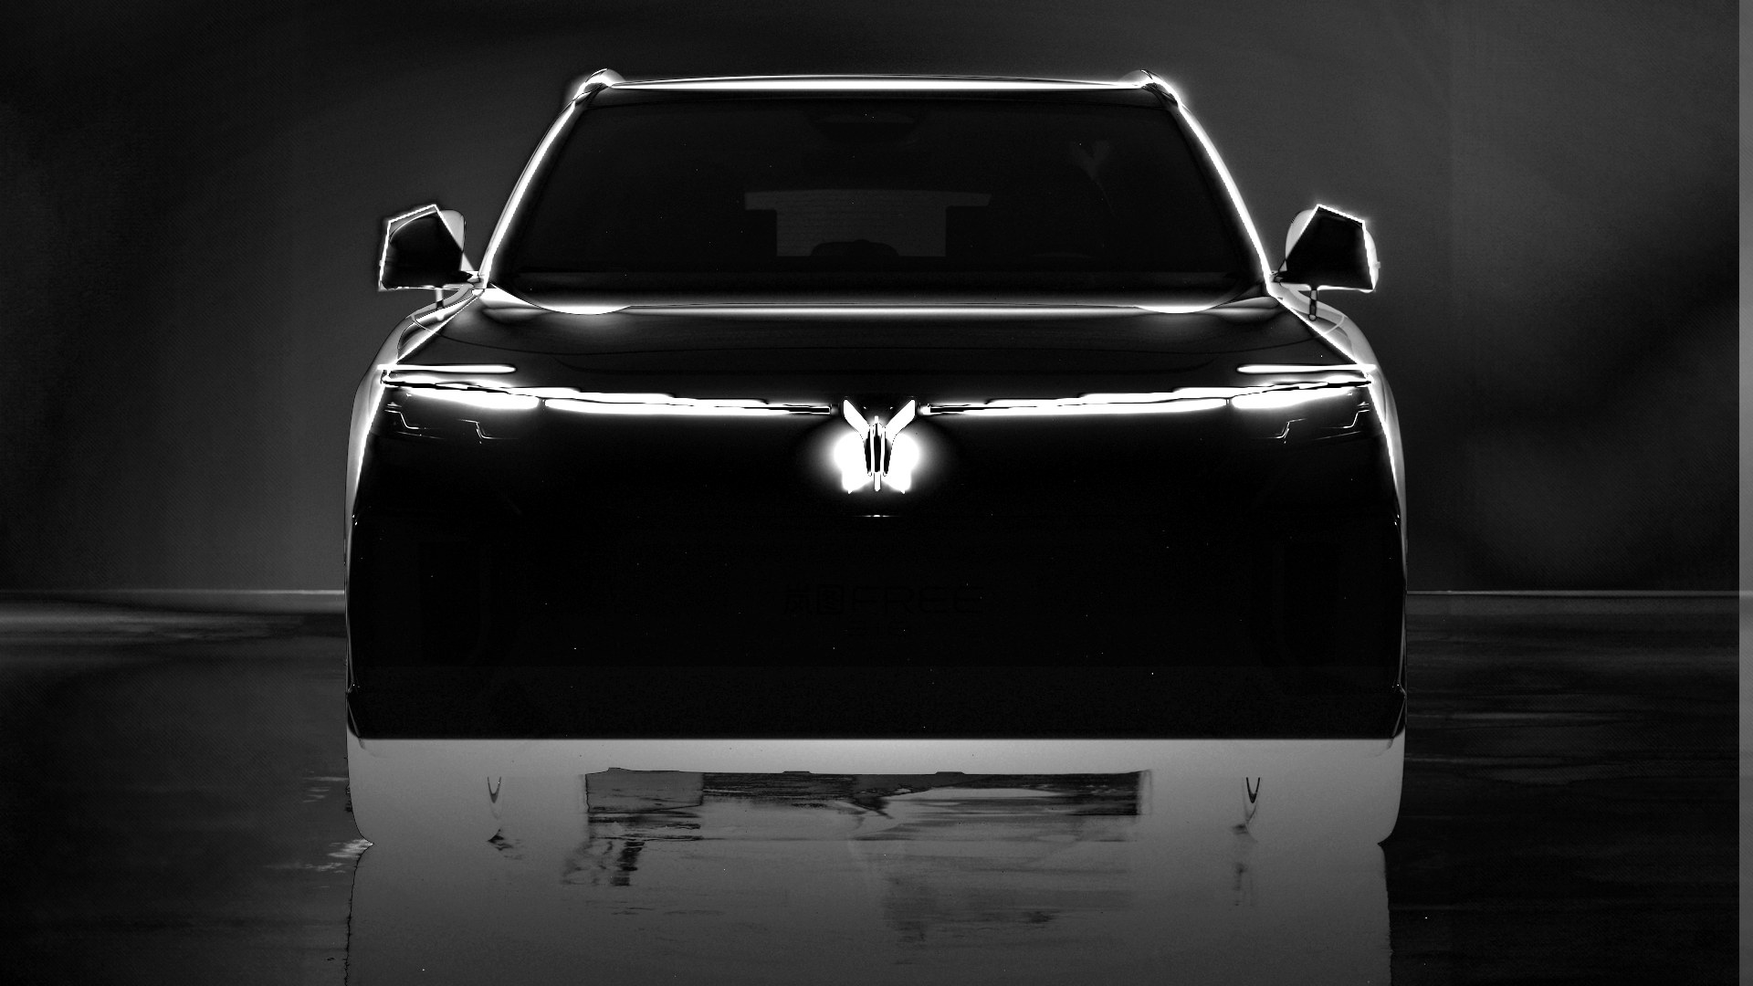
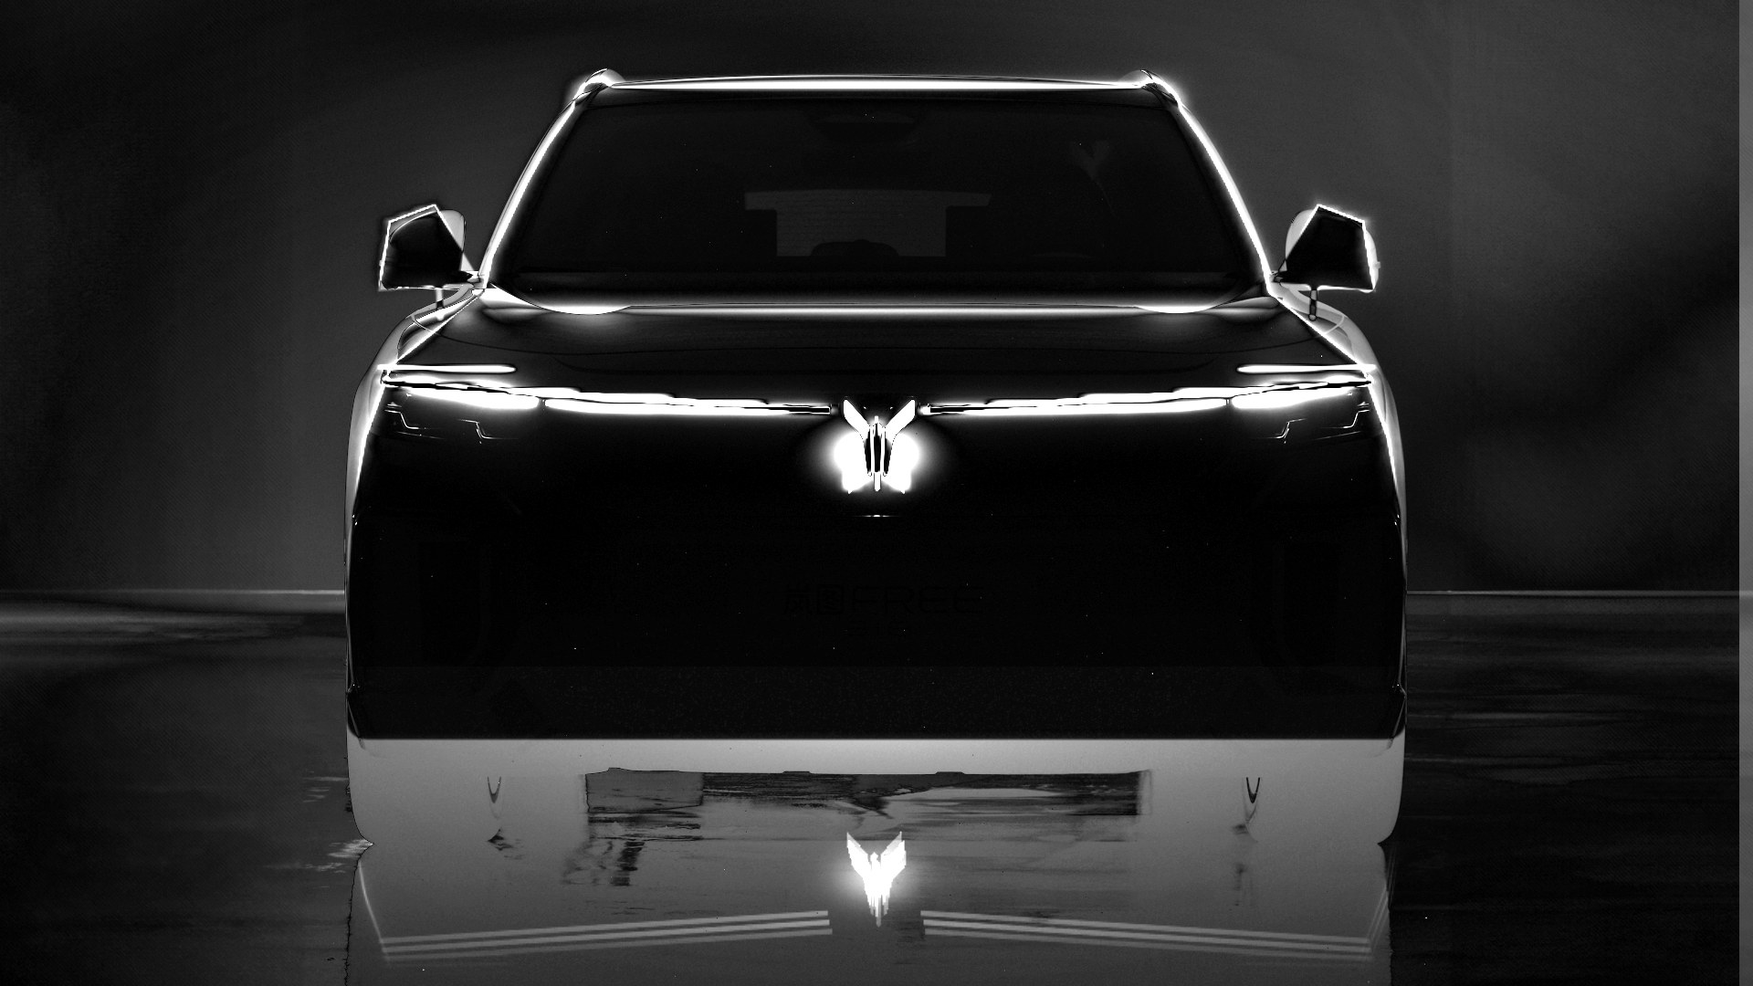
Круг 31, фаза 3: отражение доживает до копии ДХО (A5) и тень снова 0,97 длины кузова (A10)
A5 (разбор §9):
- затухание отражения считается до низа кадра (1080), а не до FLOOR+280=1010:
  копия полосы ДХО на y=2*FLOOR-448=1012 была за порогом и отсекалась;
- вес 0.30 -> 0.38 (FRONT.md §7, 35-40 %), fade = 1 - smoothstep(0.60,1.0,gap);
- кадр STILLS=1400: полоса пола средняя 21,7 -> 22,6, максимум 56 -> 130;
  копия ДХО (y 836..852) максимум 20 -> 44; зеркало знака максимум 30 -> 130;
- рейлинги, тайминги, знак, заливка, фон не тронуты; measure-intro 1798,8 scalar/px.

A10 (разбор §7/§10):
- коэффициент тени по x 0.75 -> 0.9206 = ln2/(0.97*L/2)^2 при L = 1.789 ед.:
  тень 1,08 -> 0,97 длины кузова (1,736 ед. на полувысоте);
- считается из CAR.length * SCALE.bg3d в shader.ts, дрейфа больше не будет;
- по y (20.0) и множитель (0.62) не менялись, кромка 4,78 px не тронута;
- гейт edge:shadow читает живые константы из shader.ts, порты tools/bg3d/* обновлены.

Гейты: tsc 0, build ok, check-shader-compile 13 объектов, measure:bg3d (утечек нет,
5890 Б gzip), measure:bg3d:dyn (отражение только high, 31,7 %), intro-overlay exit 0
(IoU 0,907/0,854), npm test rc 0 / 109 pass / layout 8/8.

Changed region(s): [[0.2188, 0.8556, 0.7812, 0.9778]]

diff --git a/site/src/client/bg3d/shader.ts b/site/src/client/bg3d/shader.ts
@@ -22,7 +22,16 @@
  * отличаются только глубиной, а не тоном страницы: переключение не выглядит прыжком.
  */
 
-import { PROFILE_GLSL, SCALE, SCENE } from '../car-profile.ts';
+import { CAR, PROFILE_GLSL, SCALE, SCENE } from '../car-profile.ts';
+
+/* Тень под кузовом (контактная, гауссова). Её ширина по x привязана к ДЛИНЕ кузова,
+   а не к числу: константа 0.75 писалась под длину 1,976 ед. и после переезда на
+   паспортный масштаб (1,789 ед.) тень стала 1,08 длины вместо 0,97 (задание №55, фаза 3,
+   разбор §7/§10). Полуширина на полувысоте гауссианы exp(−a·x²) равна sqrt(ln2 / a),
+   поэтому a = ln2 / (0.97 · L / 2)² — при смене профиля коэффициент поедет сам. */
+const SHADOW_LEN = CAR.length * SCALE.bg3d;            /* длина силуэта, ед. сцены ≈ 1.789 */
+const SHADOW_HALF = 0.97 * SHADOW_LEN * 0.5;           /* полуширина на полувысоте ≈ 0.868 */
+const SHADOW_X = Math.LN2 / (SHADOW_HALF * SHADOW_HALF);   /* ≈ 0.921 */
 
 /** Один треугольник на весь экран: 3 вершины, 0 индексных буферов, 1 draw call. */
 export const VERT = `precision highp float;
@@ -201,7 +210,8 @@ void main(){
     /* контактная тень под машиной — до силуэта, чтобы легла на пол */
     /* Линия земли = низ паспортного колеса (CAR_GROUND). Тень и отражение — от неё же. */
     float gy = q.y - CAR_GROUND;
-    float shd = exp(-(q.x * q.x * 0.75 + gy * gy * 20.0));
+    /* 0.921 = ln2 / (0.97·L/2)² при L = 1.789 ед.: тень снова 0.97 длины кузова */
+    float shd = exp(-(q.x * q.x * ${SHADOW_X.toFixed(4)} + gy * gy * 20.0));
     col *= 1.0 - 0.62 * shd;
 
     float sd = carSdf(q);

diff --git a/site/src/client/voyah-intro.ts b/site/src/client/voyah-intro.ts
@@ -300,8 +300,13 @@ void main(){
       acc += (l2 + vec3(0.02) * b2) * w;
       wsum += w;
     }
-    float depth = clamp((p.y - FLOOR) / 280.0, 0.0, 1.0);
-    col += acc / wsum * 0.30 * reflIn * pow(1.0 - depth, 2.4);   /* к низу кадра гаснет раньше */
+    /* Затухание считаем до НИЗА кадра (1080), а не до FLOOR + 280 = 1010: зеркальная
+       копия полосы ДХО живёт на y = 2*FLOOR - 448 = 1012 и при прежнем пороге
+       отсекалась по построению (разбор §9). Теперь отражение доживает до копии ДХО
+       и гаснет только у самой нижней кромки кадра. Вес 0.38 — по FRONT.md §7 (35–40 %). */
+    float gap = clamp((p.y - FLOOR) / (1080.0 - FLOOR), 0.0, 1.0);
+    float fade = 1.0 - smoothstep(0.60, 1.0, gap);
+    col += acc / wsum * 0.38 * reflIn * fade;
   }
 
   col += light;

diff --git a/docs/reports/r31-bg3d/phase3-shadow.md b/docs/reports/r31-bg3d/phase3-shadow.md
@@ -1,0 +1,91 @@
+# Круг 31 / задание №55 — A10, фаза 3: константы тени под новую длину кузова
+
+База — дерево оркестратора `108c526`. Правка по §10 разбора `docs/reports/r31-review/review-3.md`
+(поправка 2) и §7 того же разбора. Кромка — **не тронута** по прямому указанию.
+
+## 1. Что было
+
+```
+gy  = q.y - CAR_GROUND;
+shd = exp(-(q.x * q.x * 0.75 + gy * gy * 20.0));
+col *= 1.0 - 0.62 * shd;
+```
+
+Коэффициент `0.75` писался под длину силуэта **1,976 ед.** сцены. После переезда на паспортный
+масштаб (`SCALE.bg3d = 0.6 / 1.645`) длина стала **1,789 ед.**, а константа осталась — тень
+выросла до **1,08 длины кузова** (было 0,97). На глаз это «мягкая тень», но это дрейф, а не решение.
+
+## 2. Что сделано
+
+Замер `scripts/bg3d-edge-shadow.mjs` показал: полуширина гауссианы `exp(−a·x²)` на полувысоте
+равна `sqrt(ln2 / a)`, значит
+
+```
+полуширина = 0.97 · L / 2   ⇒   a = ln2 / (0.97 · L / 2)²
+```
+
+В `src/client/bg3d/shader.ts` коэффициент теперь **считается из данных**, а не зашит:
+
+```ts
+const SHADOW_LEN  = CAR.length * SCALE.bg3d;               /* длина силуэта, ед. ≈ 1.789 */
+const SHADOW_HALF = 0.97 * SHADOW_LEN * 0.5;               /* полуширина на полувысоте ≈ 0.868 */
+const SHADOW_X    = Math.LN2 / (SHADOW_HALF * SHADOW_HALF); /* ≈ 0.9206 */
+...
+float shd = exp(-(q.x * q.x * ${SHADOW_X.toFixed(4)} + gy * gy * 20.0));
+```
+
+- по **x**: `0.75 → 0.9206` — тень снова 0,97 длины кузова;
+- по **y** `20.0` и множитель `0.62` **не менялись**: они задают вертикальную мягкость и
+  плотность, а не длину — менять их значило бы менять вид тени, чего в задании нет;
+- **кромка** `edge = 1 − smoothstep(0.0, 0.016, |sd|)` не тронута: 4,78 px, как принято в §7;
+- при следующей смене профиля коэффициент поедет сам — дрейфа больше не будет.
+
+## 3. Замер (тот же скрипт, что и в фазе 2)
+
+`node scripts/bg3d-edge-shadow.mjs` (вывод — `docs/reports/r31-bg3d/edge-shadow.txt`,
+json — `edge-shadow.json`):
+
+| | до (92fb168) | было в фазе 2 | стало |
+|---|---|---|---|
+| полуширина x на полувысоте, ед. | 0,962 | 0,962 | **0,868** |
+| полуширина x на 0,1, ед. | 1,753 | 1,753 | **1,582** |
+| полная ширина на полувысоте, ед. | 1,924 | 1,924 | **1,736** |
+| длина кузова, ед. | 1,976 | 1,789 | 1,789 |
+| тень / длина кузова | 0,97 | 1,08 | **0,97** |
+| полуширина y (0,5 / 0,1), ед. | 0,187 / 0,340 | 0,187 / 0,340 | 0,187 / 0,340 |
+| кромка, px (640×360) | 4,78 | 4,78 | 4,78 |
+| контакт колеса с землёй, ед. | — | 5,6·10⁻¹⁷ | 5,6·10⁻¹⁷ |
+
+Тень стала **99,7 %** от прежней относительно кузова, то есть вернулась ровно к «0,97 длины».
+Кроп «до/после» под машиной — `shadow-before-after.jpg` (кадр CPU-порта, 1280×720, t=4 с,
+вариант B, качество 2 — те же параметры, что у `frames-cpu/B-silhouette-1280x720.png`).
+
+## 4. Порт и гейт — в одной сдаче со сценой
+
+- `scripts/bg3d-edge-shadow.mjs` больше **не хранит** константы «после»: коэффициент по x
+  считается из `CAR.length * SCALE.bg3d` той же формулой, а `20.0` и `0.62` читаются регуляркой
+  из `src/client/bg3d/shader.ts`. Если формулу в шейдере перепишут так, что регулярка не найдёт
+  константы, скрипт падает с exit 1 — мерить «воспоминание» он не может.
+- `tools/bg3d/ref.mjs` и `tools/bg3d/ref-dyn.mjs` (CPU-порты стоимости) обновлены тем же
+  `SHADOW_X` — порт совпадает со сценой, замер `measure:bg3d`/`measure:bg3d:dyn` снят с неё же.
+
+## 5. Гейты
+
+| Гейт | Результат |
+|---|---|
+| `npx tsc --noEmit` | rc 0 |
+| `npm run build` | ok |
+| `check-shader-compile` | 13 объектов в 3 прогонах, логи драйвера чистые |
+| `npm run measure:bg3d` | шейдер 5890 Б gzip из 14336, GL-объекты симметричны, слушателей 0, куча на плато — утечек нет |
+| `npm run measure:bg3d:dyn` | отражение в асфальте только на `high` (31,7 % px), low/mid — 0 |
+| `edge:shadow` | тень 0,97 длины, кромка 4,78 px |
+| `npm test` | **rc 0, 109 pass / 0 fail**, `VOYAH-LAYOUT: всё в норме` |
+
+## 6. Что не делал
+
+- Кромку не трогал (прямое указание §7): её +17,6 % относительно кузова — следствие того, что
+  кузов стал ниже, абсолютная толщина та же.
+- Тень по y не трогал: 0,187 ед. полуширины (55,8 px) — это «мягкость книзу», в задании её
+  пересчитывать не просили, а любое изменение тут меняет вид пятна, а не его длину.
+- `package.json` не трогал: общий `npm test` не укорачивал, скрипты не удалял (это была
+  отдельная претензия в §10).

diff --git a/docs/reports/r31-intro/report-r4.md b/docs/reports/r31-intro/report-r4.md
@@ -1,0 +1,81 @@
+# Круг 31 / задание №52 — A5, фаза 3: отражение в полу
+
+База — дерево оркестратора `108c526` (A5 ред. 3 + A10 фаза 2 сведены). Правка одна, по §9
+разбора `docs/reports/r31-review/review-3.md`: отражение не читалось в кадре.
+
+## 1. Что было не так (подтверждаю разбор)
+
+```
+depth = clamp((p.y - FLOOR) / 280.0, 0.0, 1.0);
+col  += acc / wsum * 0.30 * reflIn * pow(1.0 - depth, 2.4);   /* ноль на y = 1010 */
+```
+
+`FLOOR = 730`, зеркальная копия полосы ДХО живёт на `y = 2·FLOOR − 448 = 1012`, то есть
+**на 2 px ниже порога затухания** — самое яркое, что могло отражаться, отсекалось
+по построению. Плюс вес 0,30 против 35–40 % из `FRONT.md` §7.
+
+## 2. Что сделано
+
+```glsl
+/* затухание до НИЗА кадра (1080), а не до FLOOR + 280 = 1010 */
+float gap  = clamp((p.y - FLOOR) / (1080.0 - FLOOR), 0.0, 1.0);   /* 0 у пола, 1 у нижней кромки */
+float fade = 1.0 - smoothstep(0.60, 1.0, gap);                     /* гаснет только в самом низу */
+col += acc / wsum * 0.38 * reflIn * fade;                          /* вес 0,38 — по §7 */
+```
+
+- на копии ДХО (`y = 1012`, `gap = 0,806`) множитель `fade = 0,478`, итоговый коэффициент
+  `0,38 × 0,478 = 0,182` — отражение доходит до копии полосы;
+- у нижней кромки кадра (`y = 1080`) `fade = 0` — резкой «полки» нет;
+- вес 0,38 — в коридоре 0,35–0,40;
+- три тапа `layers()` и геометрия отражения не менялись, стоимость кадра не выросла (§5).
+
+Рейлинги, тайминги, знак, заливка, фон, полосы-гейты — **не тронуты**.
+
+## 3. Доказательство числом (кадр `STILLS=1400`, 1600×900)
+
+`node scripts/intro-stills.mjs` (1600×900, `still-1400.jpg`), серое по Rec.709,
+метод одинаковый для «до» и «после»:
+
+| область | было | стало |
+|---|---|---|
+| полоса пола `y ≥ 0,676 H` (608…899), вся ширина: средняя | 21,7 | **22,6** |
+| то же: максимум | 56 | **130** |
+| копия ДХО `y 836…852`, `x 340…1260`: средняя | 17,9 | **22,5** |
+| копия ДХО: максимум (фон полосы ≈ 20) | 20 | **44** |
+| зеркало знака `y 760…820`: максимум | 30 | **130** |
+
+Строка `y = 843` — это ровно копия полосы ДХО (`scene y = 1012`); до правки там было ровное
+поле без линии, теперь полоса видна как линия отражения. Кроп «до/после» —
+`refl-floor-cmp.jpg`.
+
+*Про числа разбора (§5: 16,6 / 40,2):* на том же файле `stills-r3/still-1400.jpg` мой замер
+даёт 21,7 / 56 — метод в разборе не указан (видимо, другая маска или другая метрика яркости).
+Пару «до/после» я снимал **одним и тем же способом**, поэтому сравнение корректно; вывод
+разбора («отражения в кадре нет») подтверждается: до правки в полосе пола не было ни знака,
+ни копии ДХО.
+
+## 4. Гейты
+
+| Гейт | Результат |
+|---|---|
+| `npm run measure:intro` | **1798,8** scalar/px худший кадр (uT 0,76), **1303,9** среднее — как до правки (замена `pow` на `smoothstep` стоимость не изменила); литералы порта обновлены в этой же сдаче |
+| `scripts/intro-overlay.mjs` | exit 0, все ориентиры в ±1,5 %: IoU 0,907 / 0,854, верх крыши 104, ширина кузова 574,5, знак 456/83/63, зеркало 104×112, зазор 21, фон 28/20/30/14/39/38 |
+| `npm test` | **rc 0, 109 pass / 0 fail**, `VOYAH-LAYOUT: всё в норме` |
+| `check-shader-compile` | 13 объектов в 3 прогонах, логи драйвера чистые |
+
+## 5. Что переснято
+
+- `render-final.png` (1920×1080), `overlay-final.jpg`, `overlay-diff.jpg` — гейт `intro-overlay.mjs`;
+- `still-1400.jpg` (1600×900) — кадр-доказательство, как просил разбор;
+- `refl-floor-cmp.jpg` — «до/после» полосы пола ×1,0 из кадра 1400 мс;
+- постер `site/public/img/vy-intro-poster.webp` — **12 924 Б** (лимит 60 КБ).
+
+## 6. Что осталось честно сказать
+
+- Отражение теперь **видно**, но оно мягкое: копия ДХО — линия в 44/255 на фоне полосы 20/255,
+  знак — до 130/255. Это ровно то, что даёт вес 0,38 при `reflIn ≈ 0,5` в фазе 1400 мс;
+  если владельцу нужно «как в мокром асфальте» — это уже вес 0,5–0,6 вне §7, решать ему.
+- Отражение силуэта кузова (тёмное) в кадре читается слабо по построению: кузов почти чёрный
+  (`vec3(0.004)`), отражать в нём нечего — видны только знак, полоса ДХО и кромки.
+- Проверял только Chromium/SwiftShader в песочнице; на живом железе картинка та же (шейдер
+  без ветвлений по устройству), а вот fps надо мерить на ноутбуке/телефоне.
